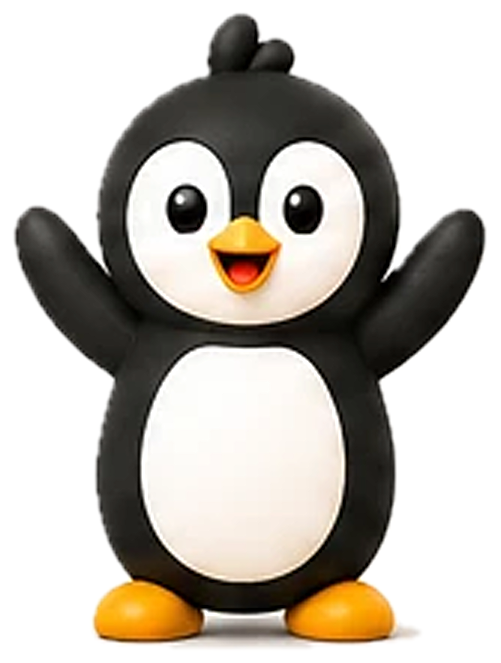
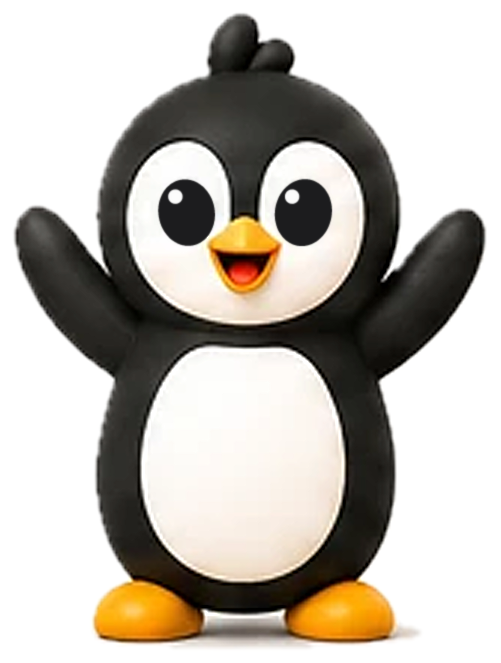
GTA 6 carousel: repaint Chip's pupils to match the brand reference
Claude-Session: https://claude.ai/code/session_011HgaDvzB2TFRzZhuJwdZ16

Changed region(s): [[0.2994, 0.2715, 0.4491, 0.3922], [0.5389, 0.2715, 0.6886, 0.3922]]

diff --git a/collection-pot/gta6-wanted-level/chip/fix_eyes.py b/collection-pot/gta6-wanted-level/chip/fix_eyes.py
@@ -1,0 +1,82 @@
+# Repaint Chip's pupils to match the brand reference (ref/chip-eyes-reference.jpg): large, glossy, slightly
+# tilted black ovals with an upper-left highlight, sitting inside the white face. Erases the old pupils by
+# inpainting, then draws the new ones (supersampled), clipped to the white face so they never touch the black head.
+# Usage: python3 -I fix_eyes.py in.png out.png [--center 0.5] [--scale 1.0]
+#   --center: how far to move each pupil toward the middle of its eye area (0 = keep, 1 = fully centred)
+import cv2, numpy as np, sys
+a = sys.argv[1:]
+def opt(name, default):
+    if name in a: i = a.index(name); v = float(a[i + 1]); del a[i:i + 2]; return v
+    return default
+center = opt('--center', 0.0); gscale = opt('--scale', 1.0)
+src, dst = a[0], a[1]
+img = cv2.imread(src, cv2.IMREAD_UNCHANGED)
+rgb, alpha = img[..., :3].copy(), img[..., 3]
+H, W = alpha.shape
+hsv = cv2.cvtColor(rgb, cv2.COLOR_BGR2HSV)
+head = np.zeros((H, W), bool); head[:int(H * 0.62)] = True
+white = (hsv[..., 2] > 175) & (hsv[..., 1] < 70) & (alpha > 200) & head
+white = cv2.morphologyEx(white.astype(np.uint8), cv2.MORPH_OPEN, np.ones((3, 3), np.uint8))
+# the face: largest white region (eye lobes + cheeks); fill its holes to get the area the pupils live in
+n, lab, st, cen = cv2.connectedComponentsWithStats(white)
+face_id = 1 + int(np.argmax(st[1:, 4])); face = (lab == face_id).astype(np.uint8)
+cnts, _ = cv2.findContours(face, cv2.RETR_EXTERNAL, cv2.CHAIN_APPROX_SIMPLE)
+face_filled = np.zeros_like(face); cv2.drawContours(face_filled, cnts, -1, 1, -1)
+dark = (hsv[..., 2] < 120).astype(np.uint8)
+holes = face_filled & (1 - face) & dark
+n, lab, st, cen = cv2.connectedComponentsWithStats(holes)
+pupils = []
+for k in range(1, n):
+    area = st[k, 4]
+    if area < 0.00025 * H * W: continue
+    comp = (lab == k).astype(np.uint8)
+    c2, _ = cv2.findContours(comp, cv2.RETR_EXTERNAL, cv2.CHAIN_APPROX_NONE)
+    per = cv2.arcLength(max(c2, key=cv2.contourArea), True)
+    circ = 4 * np.pi * area / max(per * per, 1)
+    if circ < 0.55: continue            # closed/winking eye or beak line: leave it alone
+    pupils.append((area, k, comp))
+pupils = sorted(pupils, reverse=True)[:2]
+if not pupils: print(dst, 'no pupils found'); cv2.imwrite(dst, img); sys.exit()
+fx0, fy0, fw, fh = cv2.boundingRect(face_filled)
+mid = fx0 + fw / 2
+out = rgb.copy()
+erase = np.zeros((H, W), np.uint8)
+for _, k, comp in pupils:
+    c2, _ = cv2.findContours(comp, cv2.RETR_EXTERNAL, cv2.CHAIN_APPROX_SIMPLE)
+    filled = np.zeros_like(comp); cv2.drawContours(filled, c2, -1, 1, -1)
+    erase |= cv2.dilate(filled, np.ones((5, 5), np.uint8), iterations=2)
+out = cv2.inpaint(out, erase * 255, 7, cv2.INPAINT_TELEA)
+allowed = cv2.erode(face_filled, np.ones((5, 5), np.uint8), iterations=1)
+SS = 4
+layer = np.zeros((H * SS, W * SS, 4), np.float32)
+for _, k, comp in pupils:
+    ys, xs = np.where(comp > 0); cx, cy = xs.mean(), ys.mean()
+    r = np.sqrt(len(xs) / np.pi)
+    side = -1 if cx < mid else 1
+    if center > 0:   # pull toward the centre of this eye's white area (per side of the face)
+        sidem = face_filled.copy(); sidem[:, :int(mid)] = 0 if side > 0 else sidem[:, :int(mid)]
+        if side < 0: sidem[:, int(mid):] = 0
+        sy, sx = np.where(sidem[:int(cy + 3 * r)] > 0)
+        if len(sx): cx = cx + (sx.mean() - cx) * center
+    pw, ph = 2 * r * 1.2 * gscale, 2 * r * 1.42 * gscale
+    cy = cy + 0.12 * r
+    ang = 10 * side
+    C = (int(cx * SS), int(cy * SS)); ax = (int(pw / 2 * SS), int(ph / 2 * SS))
+    pm = np.zeros((H * SS, W * SS), np.uint8); cv2.ellipse(pm, C, ax, ang, 0, 360, 255, -1)
+    # glossy black: slightly lifted rim at the bottom
+    base = np.zeros((H * SS, W * SS, 3), np.float32); base[:] = (30, 28, 28)
+    yy = np.linspace(0, 1, H * SS)[:, None]
+    m = pm.astype(np.float32) / 255
+    for ch in range(3): layer[..., ch] = layer[..., ch] * (1 - m) + base[..., ch] * m
+    layer[..., 3] = np.maximum(layer[..., 3], m)
+    # highlight
+    hx, hy = cx - 0.2 * pw, cy - 0.24 * ph
+    hl = np.zeros((H * SS, W * SS), np.uint8)
+    cv2.circle(hl, (int(hx * SS), int(hy * SS)), int(0.13 * pw * SS), 255, -1)
+    hm = (hl.astype(np.float32) / 255) * m
+    for ch in range(3): layer[..., ch] = layer[..., ch] * (1 - hm) + 252 * hm
+small = cv2.resize(layer, (W, H), interpolation=cv2.INTER_AREA)
+small = cv2.GaussianBlur(small, (0, 0), 0.6)
+la = small[..., 3:4] * allowed[..., None]
+res = (out.astype(np.float32) * (1 - la) + small[..., :3] * la).clip(0, 255).astype(np.uint8)
+cv2.imwrite(dst, np.dstack([res, alpha])); print(dst, 'pupils replaced:', len(pupils))

diff --git a/collection-pot/gta6-wanted-level/README.md b/collection-pot/gta6-wanted-level/README.md
@@ -26,6 +26,11 @@ What's your wanted level this week? Tag the colleague who's on six stars. ⭐⭐
 ## Guardrails
 No Rockstar/GTA logos, art, characters or fonts; the wanted-level stars and "Vice City" carry the reference.
 
+## Chip's eyes
+Chip's pupils follow `ref/chip-eyes-reference.jpg`: large, glossy, slightly tilted black ovals with one upper-left highlight.
+The current Chips had small round pupils, so they were repainted with `chip/fix_eyes.py` (originals in `chip/orig/`).
+Run it on any new Chip render too: `python3 -I chip/fix_eyes.py in.png out.png --scale 1.1` (add `--center 0.6` if the pupils sit off to the side).
+
 ## Finishing the Chip poses (needs ~16 Higgsfield credits)
 Placeholders are cut from `ref/chip-character-sheet.png` (low-res). To replace them:
 1. Generate with `nano_banana_pro`, 1:1, 2k, `image_references` = the uploaded character sheet (Higgsfield media `cd43c0d6-6f50-4f3e-a7ab-c81ead87bee9`).
